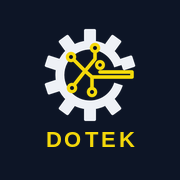
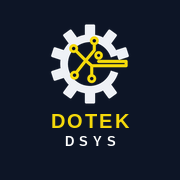
Saha: uygulama adı ve simgesi DOTEK DSYS
Claude-Session: https://claude.ai/code/session_01Nun9YyL3r1pbK7EG3qSmmf

Changed region(s): [[0.25, 0.1111, 0.75, 0.8333]]

diff --git a/public/dotek.html b/public/dotek.html
@@ -5,13 +5,13 @@
 <meta name="viewport" content="width=device-width,initial-scale=1">
 <title>Dotek Saha Yönetim Sistemi</title>
 <meta name="theme-color" content="#0D1526">
-<link rel="manifest" href="/dotek.webmanifest">
-<link rel="icon" type="image/png" sizes="48x48" href="/ikon/favicon-48.png">
-<link rel="apple-touch-icon" href="/ikon/apple-touch-icon.png">
+<link rel="manifest" href="/dotek.webmanifest?v=2">
+<link rel="icon" type="image/png" sizes="48x48" href="/ikon/favicon-48.png?v=2">
+<link rel="apple-touch-icon" href="/ikon/apple-touch-icon.png?v=2">
 <meta name="apple-mobile-web-app-capable" content="yes">
 <meta name="mobile-web-app-capable" content="yes">
 <meta name="apple-mobile-web-app-status-bar-style" content="black-translucent">
-<meta name="apple-mobile-web-app-title" content="Dotek Saha">
+<meta name="apple-mobile-web-app-title" content="DOTEK DSYS">
 <script src="https://cdn.jsdelivr.net/npm/@supabase/supabase-js@2"></script>
 <style>
 :root{--navy:#14284b;--blue:#1f6feb;--bg:#f3f5f9;--text:#1b2433;--muted:#6b7689;--line:#e3e7ef;--green:#1a8f4c;--red:#c62f2f}
